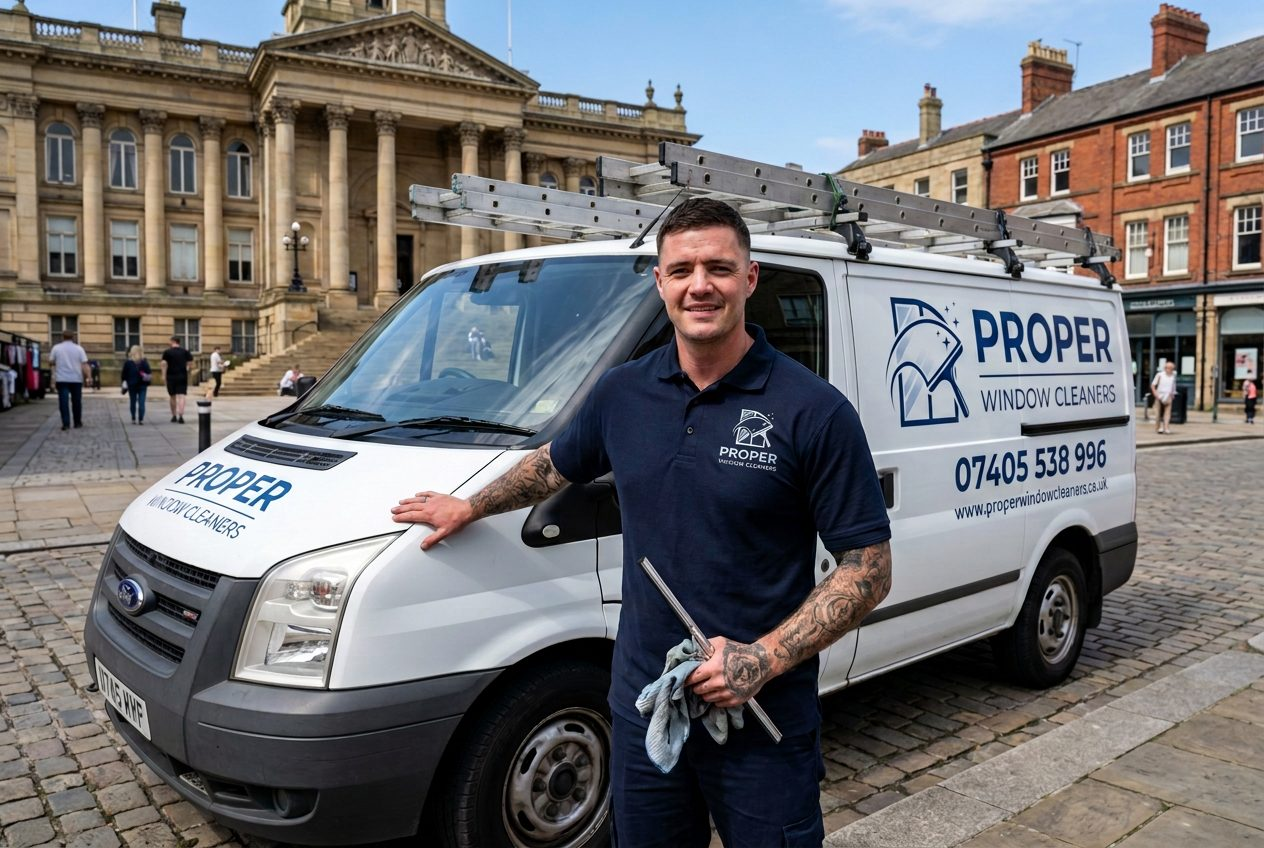
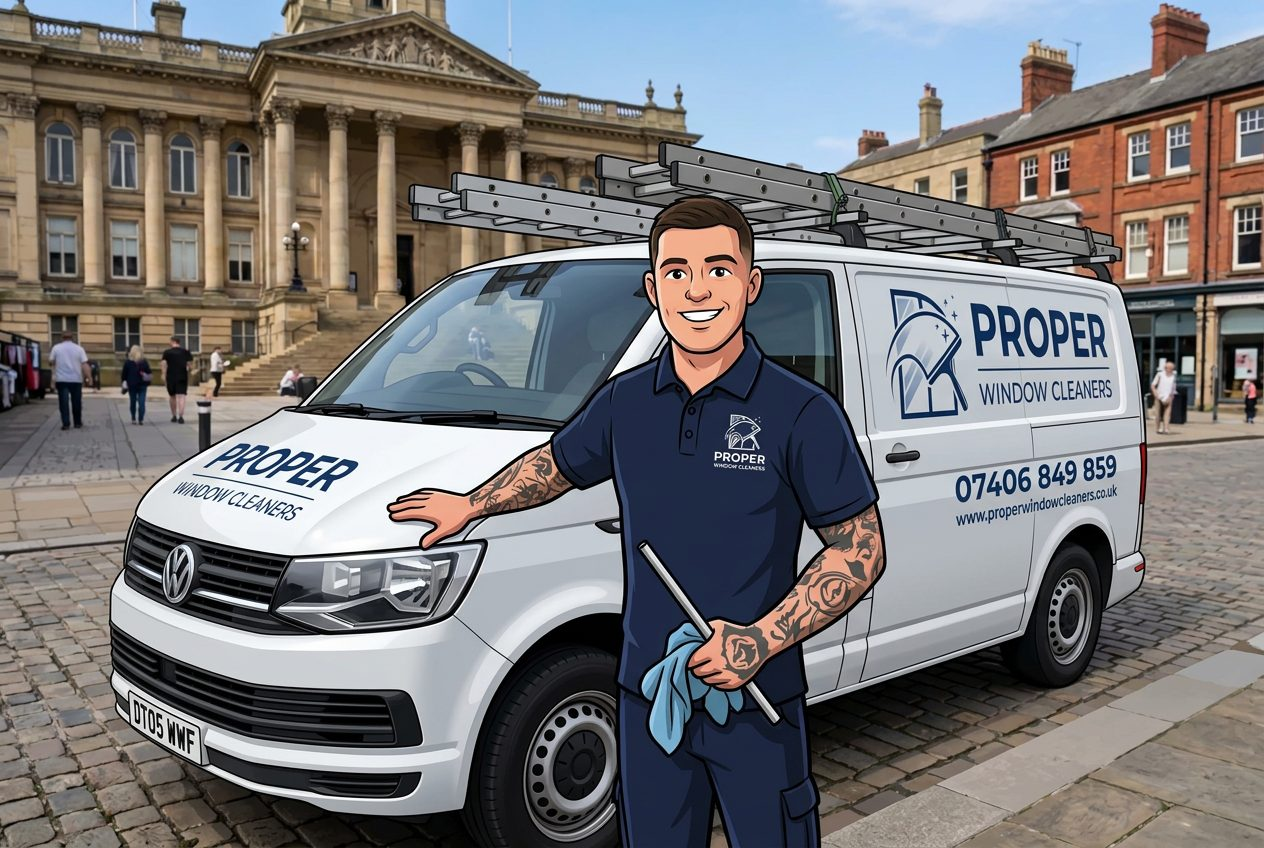
Add mascot to the intro wipe and WhatsApp button, drop em dashes
Cuts the mascot out of its white background by flooding near-white from
the image border, so the whites inside the drawing (teeth, squeegee
blade, polo logo) survive. The edge is pulled in a pixel and feathered to
kill the fringe. Exported as WebP with alpha at 24KB, since it has to be
on screen for the intro's first paint.

He now rides each squeegee pass, squeegee leading and body trailing over
the glass he has just cleared, mirrored on the two left-to-right passes
so the squeegee always leads. He fades out with the blade at the end of a
pass instead of parking at the edge. The blade is slimmed down now he
carries the wipe.

Beside the WhatsApp button he appears with a "Let's chat" bubble that
opens the panel on click, hides while the panel is open, and stays out
of the tab order since the button already carries the label.

Also rebuilds the hero JPGs from the re-uploaded source, and replaces
every em dash in site copy, data and booking emails with ordinary
punctuation.

Claude-Session: https://claude.ai/code/session_013d8s5FCMmZgCfp8Kd954zq

diff --git a/src/lib/services.ts b/src/lib/services.ts
@@ -44,7 +44,7 @@ const DETAIL: Record<string, Omit<ServiceDetail, 'from' | 'unit' | 'name' | 'slu
     lead:
       'White uPVC does not stay white in this part of the world. Between the damp, the road film and the green algae that grows on anything north-facing, most fascias are a decent few shades off what they were when they were fitted.',
     body: [
-      'The good news is that almost all of it comes off. What looks like permanent staining is generally a layer of algae and traffic film sitting on the surface, and it lifts with the right brush, the right cleaner and enough patience. We work along the whole run — fascia board, soffit underside, the bargeboards on the gable and the exterior of the gutter itself, which is the bit most people forget.',
+      'The good news is that almost all of it comes off. What looks like permanent staining is generally a layer of algae and traffic film sitting on the surface, and it lifts with the right brush, the right cleaner and enough patience. We work along the whole run: fascia board, soffit underside, the bargeboards on the gable and the exterior of the gutter itself, which is the bit most people forget.',
       'No bleach goes near your plants. Household bleach is what a lot of people reach for and it will strip the colour out of shrubs underneath while doing nothing much for the plastic. We use a uPVC-safe cleaner, rinse it off with purified water and leave the beds alone.',
       'It is worth pairing with a gutter clear if you are having one. The pole and the machine are already up there, so doing both in a single visit is quicker than two separate jobs and the price reflects that.',
     ],
@@ -56,7 +56,7 @@ const DETAIL: Record<string, Omit<ServiceDetail, 'from' | 'unit' | 'name' | 'slu
     ],
     faqs: [
       { q: 'Will it definitely come back white?', a: 'Nearly always, but be realistic about very old plastic. uPVC that has been up twenty-odd years can be chalked and slightly yellowed by UV, and no amount of cleaning reverses that. We will tell you honestly what we think it will come up like before you commit.' },
-      { q: 'Do you do cladding and porches too?', a: 'Yes. Vertical cladding, porch roofs, dormer cheeks, garage fascia — anything uPVC we can reach from the ground. Mention it on the booking form and we will price the lot together.' },
+      { q: 'Do you do cladding and porches too?', a: 'Yes. Vertical cladding, porch roofs, dormer cheeks, garage fascia, anything uPVC we can reach from the ground. Mention it on the booking form and we will price the lot together.' },
       { q: 'How long does it stay clean?', a: 'Two to three years for most houses. North-facing runs and anything under trees go green quicker. A regular window round helps, because we can see it happening and give you a nudge before it gets bad again.' },
     ],
   },
@@ -80,7 +80,7 @@ const DETAIL: Record<string, Omit<ServiceDetail, 'from' | 'unit' | 'name' | 'slu
     faqs: [
       { q: 'Do you clean the inside of the roof?', a: 'We can, but it is a separate job and it depends on the height and what is underneath. Furniture needs moving and the floor covering. Ask when you book and we will have a look at what is involved before quoting.' },
       { q: 'My roof is green all over. Will it come off?', a: 'Almost certainly. Green algae on polycarbonate looks alarming and comes off with surprisingly little drama. What does not fully recover is polycarbonate that has gone brittle and crazed with age, and we would rather warn you about that up front than take your money and disappoint you.' },
-      { q: 'How often does a conservatory roof need doing?', a: 'Once a year suits most, and spring is the sensible time — it clears the winter build-up just as you start using the room again. Under overhanging trees you might want it twice.' },
+      { q: 'How often does a conservatory roof need doing?', a: 'Once a year suits most, and spring is the sensible time, because it clears the winter build-up just as you start using the room again. Under overhanging trees you might want it twice.' },
     ],
   },
   'solar-panel-cleaning': {
@@ -90,9 +90,9 @@ const DETAIL: Record<string, Omit<ServiceDetail, 'from' | 'unit' | 'name' | 'slu
     lead:
       'Solar panels are self-cleaning in the same way that a car is self-cleaning: rain shifts the loose stuff and leaves a film of everything else. On a shallow-pitched roof, or anywhere near trees or a main road, that film builds.',
     body: [
-      'We clean panels with deionised water and a soft brush from the ground, and nothing else goes on them. No detergents, no polish, no abrasive pads. That is not fussiness — the anti-reflective coating on the panel surface is exactly what those things damage, and most panel warranties are specific about it.',
+      'We clean panels with deionised water and a soft brush from the ground, and nothing else goes on them. No detergents, no polish, no abrasive pads. That is not fussiness. The anti-reflective coating on the panel surface is exactly what those things damage, and most panel warranties are specific about it.',
       'The edges matter as much as the middle. Dirt and moss collect along the bottom frame of each panel, and because a panel array is wired in series, a shaded strip along one row can drag down more output than its size suggests. We work the frame edges properly rather than just sweeping the glass.',
-      'Be sensible about what to expect. Cleaning panels is worth doing, but anyone promising you a specific percentage gain is guessing — it depends entirely on how dirty they were, the pitch, and the time of year. What we can tell you is that visibly filmed panels are not doing their best work, and getting them clear costs less than most people assume.',
+      'Be sensible about what to expect. Cleaning panels is worth doing, but anyone promising you a specific percentage gain is guessing, because it depends entirely on how dirty they were, the pitch, and the time of year. What we can tell you is that visibly filmed panels are not doing their best work, and getting them clear costs less than most people assume.',
     ],
     bullets: [
       { title: 'Deionised water only', body: 'Nothing that could void a panel warranty or leave a residue that attracts more dirt.' },

diff --git a/src/app/globals.css b/src/app/globals.css
@@ -121,12 +121,12 @@ body {
   position: absolute;
   top: -2%;
   height: 104%;
-  width: 28px;
+  width: 18px;
   left: 0;
-  margin-left: -28px;
+  margin-left: -18px;
   border-radius: 3px;
-  background: linear-gradient(90deg, rgba(15, 32, 56, 0) 0%, #173154 22%, #1d4e8f 55%, #0f2038 78%, rgba(15, 32, 56, 0) 100%);
-  box-shadow: 0 0 22px rgba(12, 155, 234, 0.45);
+  background: linear-gradient(90deg, rgba(15, 32, 56, 0) 0%, rgba(23, 49, 84, 0.75) 30%, rgba(29, 78, 143, 0.8) 55%, rgba(15, 32, 56, 0.7) 80%, rgba(15, 32, 56, 0) 100%);
+  box-shadow: 0 0 20px rgba(12, 155, 234, 0.4);
   animation:
     wc-blade 0.9s cubic-bezier(0.45, 0.05, 0.3, 1) both,
     wc-blade-fade 0.9s linear both;
@@ -144,6 +144,30 @@ body {
   0%, 86% { opacity: 1; }
   100%    { opacity: 0; }
 }
+
+/* The mascot rides the wipe edge, squeegee first, body trailing over the glass
+   he has just cleared. Same left keyframes as the blade, so he stays on it. */
+.wc-mascot {
+  position: absolute;
+  bottom: 0;
+  left: 0;
+  height: 78%;
+  width: auto;
+  /* scaleX puts his squeegee on the leading side; translateX drops his right
+     edge onto the soap edge that `left` is animating. */
+  transform: translateX(-100%) scaleX(-1);
+  transform-origin: center;
+  filter: drop-shadow(0 10px 22px rgba(23, 49, 84, 0.35));
+  animation:
+    wc-blade 0.9s cubic-bezier(0.45, 0.05, 0.3, 1) both,
+    wc-blade-fade 0.9s linear both;
+}
+.wc-band--2 .wc-mascot {
+  transform: none;
+  animation-name: wc-blade-rtl, wc-blade-fade;
+}
+.wc-band--2 .wc-mascot { animation-delay: 0.75s; }
+.wc-band--3 .wc-mascot { animation-delay: 1.5s; }
 
 /* Band 2 comes back the other way, so its soap and blade mirror. */
 .wc-band--2 .wc-foam { animation-name: wc-clear-rtl; }
@@ -208,4 +232,57 @@ body {
 @media (prefers-reduced-motion: reduce) {
   .wa-dock,
   .wa-panel { animation: none; }
+}
+
+/* Mascot greeter beside the WhatsApp button. */
+.wa-greeter {
+  animation: wa-greeter-in 0.35s ease-out 3.3s both;
+}
+.wa-greeter-mascot {
+  height: 62px;
+  width: auto;
+  filter: drop-shadow(0 6px 14px rgba(23, 49, 84, 0.3));
+  animation: wa-greeter-bob 3.2s ease-in-out 3.6s infinite;
+}
+.wa-greeter-bubble {
+  position: relative;
+  margin-bottom: 16px;
+  white-space: nowrap;
+  border-radius: 14px;
+  background: #fff;
+  padding: 5px 10px;
+  font-size: 12.5px;
+  font-weight: 700;
+  color: #173154;
+  box-shadow: 0 6px 18px -6px rgba(23, 49, 84, 0.45);
+}
+/* Tail pointing at the mascot. */
+.wa-greeter-bubble::after {
+  content: '';
+  position: absolute;
+  right: -5px;
+  bottom: 7px;
+  width: 10px;
+  height: 10px;
+  transform: rotate(45deg);
+  background: #fff;
+}
+
+@keyframes wa-greeter-in {
+  from { opacity: 0; transform: translateY(10px); }
+  to   { opacity: 1; transform: none; }
+}
+@keyframes wa-greeter-bob {
+  0%, 100% { transform: translateY(0); }
+  50%      { transform: translateY(-5px); }
+}
+
+@media (min-width: 640px) {
+  .wa-greeter-mascot { height: 92px; }
+  .wa-greeter-bubble { margin-bottom: 22px; padding: 6px 11px; font-size: 13px; }
+}
+
+@media (prefers-reduced-motion: reduce) {
+  .wa-greeter,
+  .wa-greeter-mascot { animation: none; }
 }

diff --git a/src/app/prices/page.tsx b/src/app/prices/page.tsx
@@ -22,7 +22,7 @@ export const metadata: Metadata = {
 const PRICE_FAQS = [
   {
     q: 'Why is the first clean sometimes more?',
-    a: 'Glass that has not been touched for a while takes longer — old soap film in the corners, cobwebs behind the frames, bird mess baked on. That first visit is real extra work, so it carries a surcharge. Sign up weekly, fortnightly or monthly and we waive it entirely.',
+    a: 'Glass that has not been touched for a while takes longer. Old soap film in the corners, cobwebs behind the frames, bird mess baked on. That first visit is real extra work, so it carries a surcharge. Sign up weekly, fortnightly or monthly and we waive it entirely.',
   },
   {
     q: 'Why does a less frequent clean cost more per visit?',
@@ -30,7 +30,7 @@ const PRICE_FAQS = [
   },
   {
     q: 'Are frames and sills really included?',
-    a: 'Yes, on every clean, every time. A lot of firms quote for glass only and then charge extra for frames. We have never understood that — the frames get wet anyway when the glass is rinsed, so leaving them dirty is just doing half a job.',
+    a: 'Yes, on every clean, every time. A lot of firms quote for glass only and then charge extra for frames. We have never understood that, because the frames get wet anyway when the glass is rinsed, so leaving them dirty is just doing half a job.',
   },
   {
     q: 'What is the minimum you will come out for?',
@@ -42,7 +42,7 @@ const PRICE_FAQS = [
   },
   {
     q: 'How do I pay?',
-    a: 'Bank transfer after each clean suits most people — we text when the job is done and the details are on the message. Cash left with a neighbour or through the door is fine too. No standing orders, no card on file.',
+    a: 'Bank transfer after each clean suits most people, and we text when the job is done and the details are on the message. Cash left with a neighbour or through the door is fine too. No standing orders, no card on file.',
   },
 ];
 
@@ -117,7 +117,7 @@ export default function PricesPage() {
           </table>
         </div>
         <p className="mt-4 text-[13.5px] leading-relaxed text-navy-900/55">
-          Prices per clean. Window counts are typical for each property type — your own count sets your
+          Prices per clean. Window counts are typical for each property type, and your own count sets your
           actual price, and you can put it in below. Minimum charge {money(MINIMUM_CHARGE)}.
         </p>
       </section>
@@ -215,7 +215,7 @@ export default function PricesPage() {
           <p className="mt-4 text-[16.5px] leading-relaxed text-navy-900/72">
             These are quoted per job rather than per round, because a bungalow gutter and a
             four-bed detached gutter are not the same afternoon. Book two together and it comes down
-            again — most of the cost is having somebody there in the first place.
+            again, because most of the cost is having somebody there in the first place.
           </p>
         </div>
         <div className="mt-8 grid gap-4 sm:grid-cols-2 lg:grid-cols-4">

diff --git a/src/app/api/book/route.ts b/src/app/api/book/route.ts
@@ -72,17 +72,17 @@ export async function POST(request: Request) {
   const rows: [string, string][] = [
     ['Name', String(body.name)],
     ['Phone', String(body.phone)],
-    ['Email', String(body.email || '—')],
+    ['Email', String(body.email || 'Not given')],
     ['Address', `${body.address}, ${body.town || ''} ${body.postcode}`.replace(/\s+/g, ' ').trim()],
     ['Windows', `${body.windows} (${body.storeys} storey)`],
     ['Extras', extraLines.length ? extraLines.join(', ') : 'None'],
     ['Frequency', freq],
-    ['Quoted price', body.perClean != null ? `${money(body.perClean)} per clean` : '—'],
-    ['First clean', body.firstClean != null ? money(body.firstClean) : '—'],
+    ['Quoted price', body.perClean != null ? `${money(body.perClean)} per clean` : 'Not given'],
+    ['First clean', body.firstClean != null ? money(body.firstClean) : 'Not given'],
     ['Preferred start', `${body.startDate} (${body.timeSlot})`],
-    ['Rear access', String(body.access || '—')],
-    ['Also wants quoting', body.addons?.length ? body.addons.join(', ') : '—'],
-    ['Notes', String(body.notes || '—')],
+    ['Rear access', String(body.access || 'Not given')],
+    ['Also wants quoting', body.addons?.length ? body.addons.join(', ') : 'None'],
+    ['Notes', String(body.notes || 'None')],
   ];
 
   const text = rows.map(([k, v]) => `${k}: ${v}`).join('\n');
@@ -112,7 +112,7 @@ export async function POST(request: Request) {
   const from = process.env.BOOKINGS_FROM || 'Proper Window Cleaners <bookings@properwindowcleaners.co.uk>';
 
   if (!apiKey) {
-    // Nothing configured yet — be honest so the form shows the WhatsApp/email fallback
+    // Nothing configured yet, so be honest so the form shows the WhatsApp/email fallback
     // rather than pretending the booking landed somewhere.
     console.warn('[book] RESEND_API_KEY not set. Booking not delivered:\n' + text);
     return NextResponse.json(
@@ -129,7 +129,7 @@ export async function POST(request: Request) {
         from,
         to: [to],
         reply_to: body.email ? [String(body.email)] : undefined,
-        subject: `Booking — ${body.postcode} — ${freq} — ${body.perClean != null ? money(body.perClean) : ''}`,
+        subject: `Booking: ${body.postcode}, ${freq}, ${body.perClean != null ? money(body.perClean) : ''}`,
         text,
         html,
       }),

diff --git a/src/components/WhatsAppChat.tsx b/src/components/WhatsAppChat.tsx
@@ -109,7 +109,24 @@ export default function WhatsAppChat() {
         </div>
       )}
 
-      <button
+      <div className="flex items-end justify-end gap-1">
+        {!open && (
+          /* Decorative nudge towards the button. The button itself carries the
+             label and the focus order, so this stays out of the tab ring. */
+          <button
+            type="button"
+            aria-hidden="true"
+            tabIndex={-1}
+            onClick={() => setOpen(true)}
+            className="wa-greeter flex items-end gap-1"
+          >
+            <span className="wa-greeter-bubble">Let&rsquo;s chat</span>
+            {/* eslint-disable-next-line @next/next/no-img-element */}
+            <img src="/mascot.webp" alt="" width={262} height={480} className="wa-greeter-mascot" />
+          </button>
+        )}
+
+        <button
         ref={buttonRef}
         type="button"
         onClick={() => setOpen((v) => !v)}
@@ -119,7 +136,8 @@ export default function WhatsAppChat() {
         className="flex h-14 w-14 items-center justify-center rounded-full bg-[#25D366] text-white shadow-[0_10px_28px_-6px_rgba(37,211,102,.7)] transition-transform hover:scale-105 focus-visible:outline focus-visible:outline-2 focus-visible:outline-offset-2 focus-visible:outline-[#075E54] active:scale-95"
       >
         {open ? <CloseIcon width={24} height={24} /> : <WhatsAppIcon width={28} height={28} />}
-      </button>
+        </button>
+      </div>
     </div>
   );
 }

diff --git a/src/components/BookingForm.tsx b/src/components/BookingForm.tsx
@@ -85,7 +85,7 @@ export default function BookingForm() {
       `${windows} windows, ${storeys} storey`,
       extraLines ? `Extras: ${extraLines}` : null,
       addons.length ? `Also quote for: ${addons.join(', ')}` : null,
-      `${FREQUENCY[frequency].label} — ${money(result.perClean)} per clean`,
+      `${FREQUENCY[frequency].label}: ${money(result.perClean)} per clean`,
       `Preferred start: ${startDate} (${timeSlot})`,
     ]
       .filter(Boolean)
@@ -97,7 +97,7 @@ export default function BookingForm() {
   )}`;
 
   const mailtoHref = `mailto:${site.email}?subject=${encodeURIComponent(
-    `Window cleaning booking — ${postcode || town || name || 'new enquiry'}`,
+    `Window cleaning booking: ${postcode || town || name || 'new enquiry'}`,
   )}&body=${encodeURIComponent(
     `${summaryText}\n\nName: ${name}\nPhone: ${phone}\nEmail: ${email}\nAddress: ${address}, ${town} ${postcode}\nAccess: ${access}\nNotes: ${notes}`,
   )}`;
@@ -477,7 +477,7 @@ export default function BookingForm() {
             )}
             {!result.firstCleanWaived && frequency !== 'oneoff' && (
               <p className="text-[12.5px] text-navy-900/55">
-                First clean {money(result.firstClean)} — there is always more to shift the first time.
+                First clean {money(result.firstClean)}, because there is always more to shift the first time.
                 Go weekly, fortnightly or monthly and we waive it.
               </p>
             )}

diff --git a/src/app/page.tsx b/src/app/page.tsx
@@ -51,7 +51,7 @@ const HOME_FAQS = [
 ];
 
 const STEPS = [
-  { icon: CalendarIcon, title: 'Price it yourself', body: 'Slide the number of windows, pick single or double storey, choose how often. The price updates as you go — no waiting on a callback.' },
+  { icon: CalendarIcon, title: 'Price it yourself', body: 'Slide the number of windows, pick single or double storey, choose how often. The price updates as you go, with no waiting on a callback.' },
   { icon: PhoneIcon, title: 'We confirm the day', body: 'You get a text or a call back, usually the same working day, with the day we will be on your street and a rough time.' },
   { icon: DropletIcon, title: 'We turn up and clean', body: 'Pole and purified water, ground level, front and back. You get a text when it is done and pay by transfer or cash.' },
 ];
@@ -94,7 +94,7 @@ export default function HomePage() {
               {[
                 'No contract, cancel with a text',
                 'Fully insured, public liability',
-                'Pure water — no soap, no streaks',
+                'Pure water, no soap, no streaks',
                 'We clean rain or shine',
               ].map((item) => (
                 <li key={item} className="flex items-center gap-2.5 text-[15px] font-medium text-navy-900/85">

diff --git a/src/lib/pricing.ts b/src/lib/pricing.ts
@@ -1,12 +1,12 @@
 /**
- * Proper Window Cleaning — pricing engine.
+ * Proper Window Cleaning: pricing engine.
  *
  * Calibrated in Sept 2026 against published North West window cleaning
  * tariffs (Merseyside / Greater Manchester / Lancashire round prices for a
  * regular 4-weekly exterior clean). Our rates are set deliberately BELOW the
  * regional going rate for every property size.
  *
- * Everything below is intentionally in one file — change a number here and
+ * Everything below is intentionally in one file: change a number here and
  * the calculator, the price tables and the area pages all follow.
  */
 
@@ -105,13 +105,13 @@ export const EXTRAS: { id: ExtraId; label: string; price: number; note: string; 
   { id: 'porch', label: 'Porch', price: 2, note: 'Glass porch or storm porch, inside and out.' },
 ];
 
-/** Frames, sills and doors are included in every clean — never an upsell. */
+/** Frames, sills and doors are included in every clean, never an upsell. */
 export const INCLUDED = [
   'All reachable exterior glass',
   'Frames wiped down',
   'Sills and ledges',
   'Front and back door glass',
-  'Purified water — no soap residue',
+  'Purified water, no soap residue',
 ];
 
 /**

diff --git a/src/app/window-cleaning/[area]/page.tsx b/src/app/window-cleaning/[area]/page.tsx
@@ -207,7 +207,7 @@ export default function AreaPage({ params }: { params: { area: string } }) {
             </p>
 
             <div className="mt-14">
-              <Faq items={area.faqs} title={`Window cleaning in ${area.name} — your questions`} />
+              <Faq items={area.faqs} title={`Window cleaning in ${area.name}: your questions`} />
             </div>
           </div>
 
@@ -282,7 +282,7 @@ export default function AreaPage({ params }: { params: { area: string } }) {
 
       <CtaBand
         title={`Get a price for your ${area.name} home`}
-        body={`Windows, storeys, how often — thirty seconds and you have got the figure. We then text back to confirm which ${area.roundDay.toLowerCase().includes('day') ? 'day' : 'week'} suits.`}
+        body={`Windows, storeys, how often. Thirty seconds and you have got the figure. We then text back to confirm which ${area.roundDay.toLowerCase().includes('day') ? 'day' : 'week'} suits.`}
         href={`/book?area=${encodeURIComponent(area.name)}`}
       />
       <div className="pb-16" />

diff --git a/src/components/WindowWipeIntro.tsx b/src/components/WindowWipeIntro.tsx
@@ -7,7 +7,7 @@ import { useEffect, useState } from 'react';
  * three passes across it, clearing a band each time to reveal the site.
  *
  * The markup is server-rendered so the soap is there on the very first paint
- * rather than flashing in after hydration, and the whole animation is CSS —
+ * rather than flashing in after hydration, and the whole animation is CSS:
  * if JS never runs, the passes still play and the overlay ends up fully
  * transparent and click-through. React only unmounts the node afterwards.
  */
@@ -57,6 +57,8 @@ export default function WindowWipeIntro() {
             ))}
           </div>
           <div className="wc-squeegee" />
+          {/* eslint-disable-next-line @next/next/no-img-element */}
+          <img className="wc-mascot" src="/mascot.webp" alt="" width={262} height={480} />
         </div>
       ))}
     </div>

diff --git a/src/app/contact/page.tsx b/src/app/contact/page.tsx
@@ -100,8 +100,8 @@ export default function ContactPage() {
               <PinIcon width={19} height={19} className="text-sky-600" /> Where we are
             </h2>
             <p className="mt-3 text-[15.5px] leading-relaxed text-navy-900/72">
-              Based in {site.baseTown}, {site.baseCounty}. There is no shop or office to call in at —
-              the van is the business — but we are on the road across {areas.length} towns in{' '}
+              Based in {site.baseTown}, {site.baseCounty}. There is no shop or office to call in at and
+              the van is the business, but we are on the road across {areas.length} towns in{' '}
               {site.region}.
             </p>
             <Link href="/areas" className="mt-4 inline-block text-[14.5px] font-semibold text-navy-700 underline">

diff --git a/src/app/about/page.tsx b/src/app/about/page.tsx
@@ -173,7 +173,7 @@ export default function AboutPage() {
             <PinIcon width={22} height={22} className="text-sky-600" />
             <h3 className="mt-3 text-[17px] font-bold text-navy-950">Based in {site.baseTown}</h3>
             <p className="mt-2 text-[15px] leading-relaxed text-navy-900/70">
-              {site.baseCounty}, working across {site.region}. No shop, no office — the van is the business.
+              {site.baseCounty}, working across {site.region}. No shop, no office, just the van.
             </p>
           </div>
           <div className="min-w-0">
